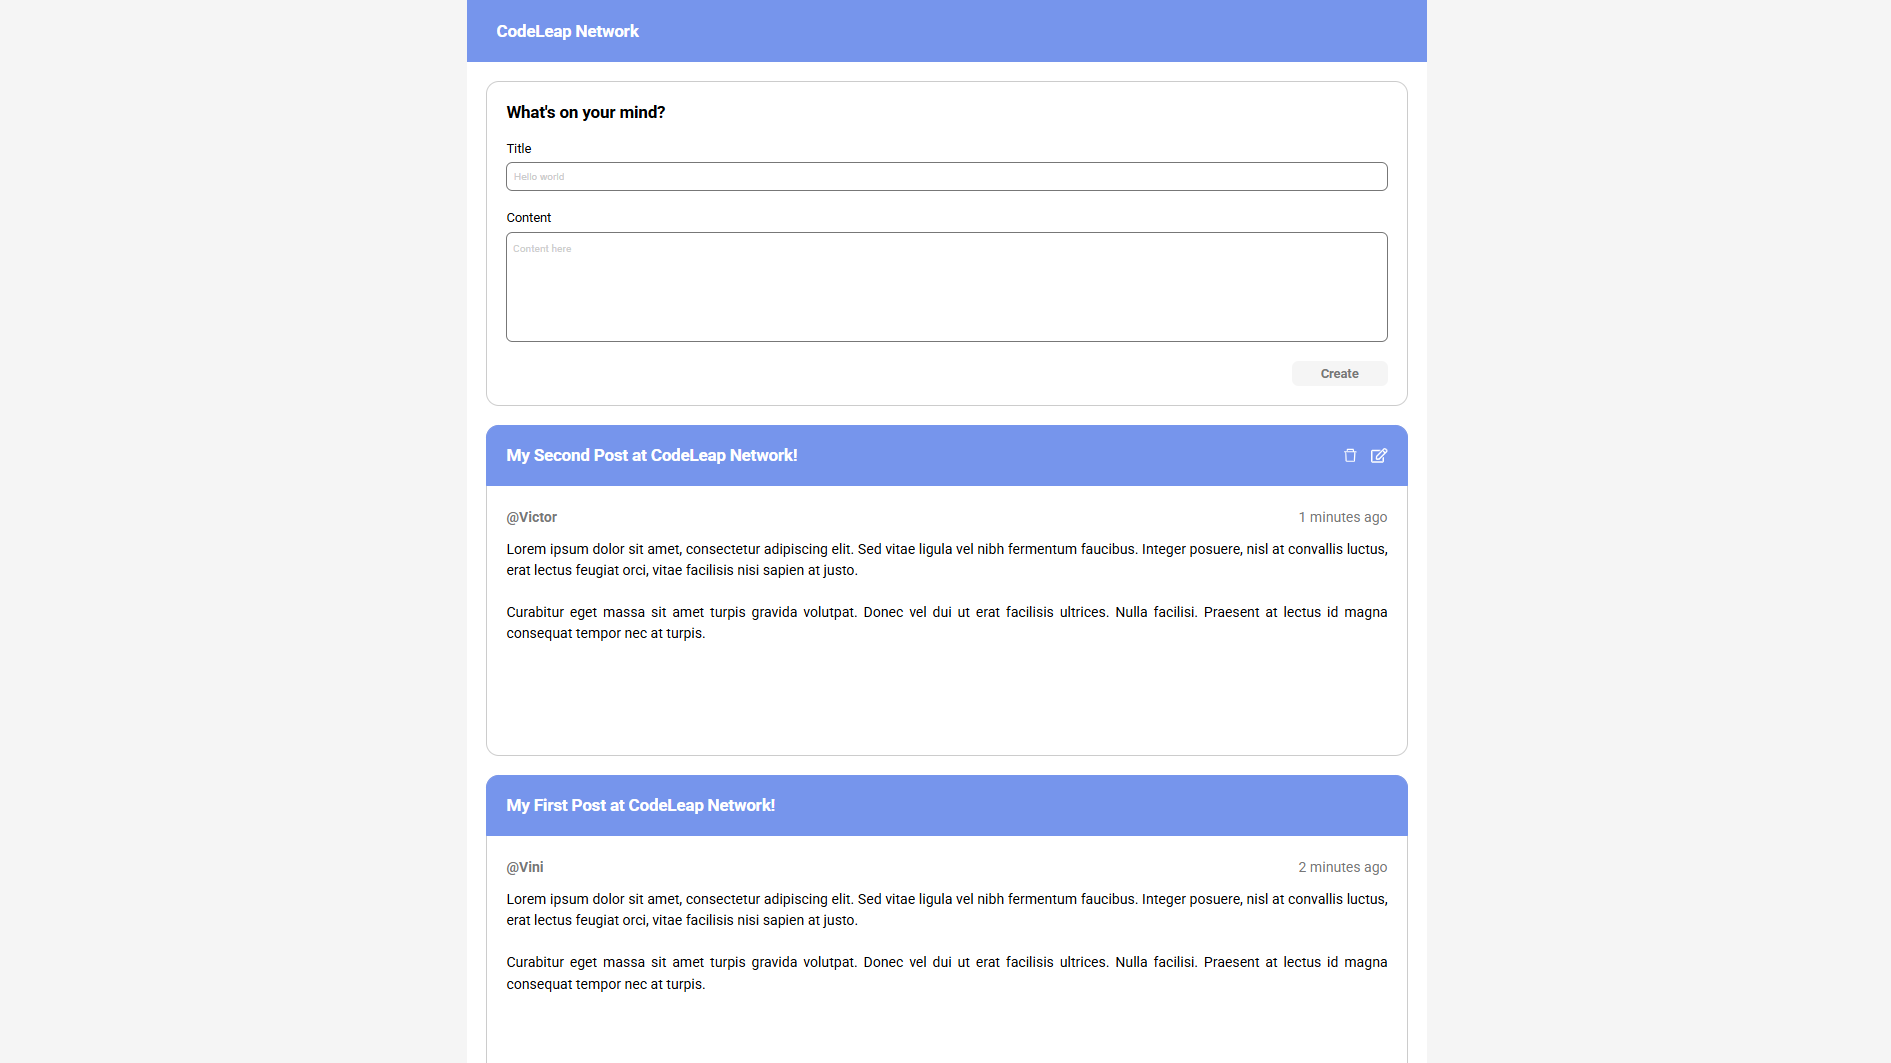
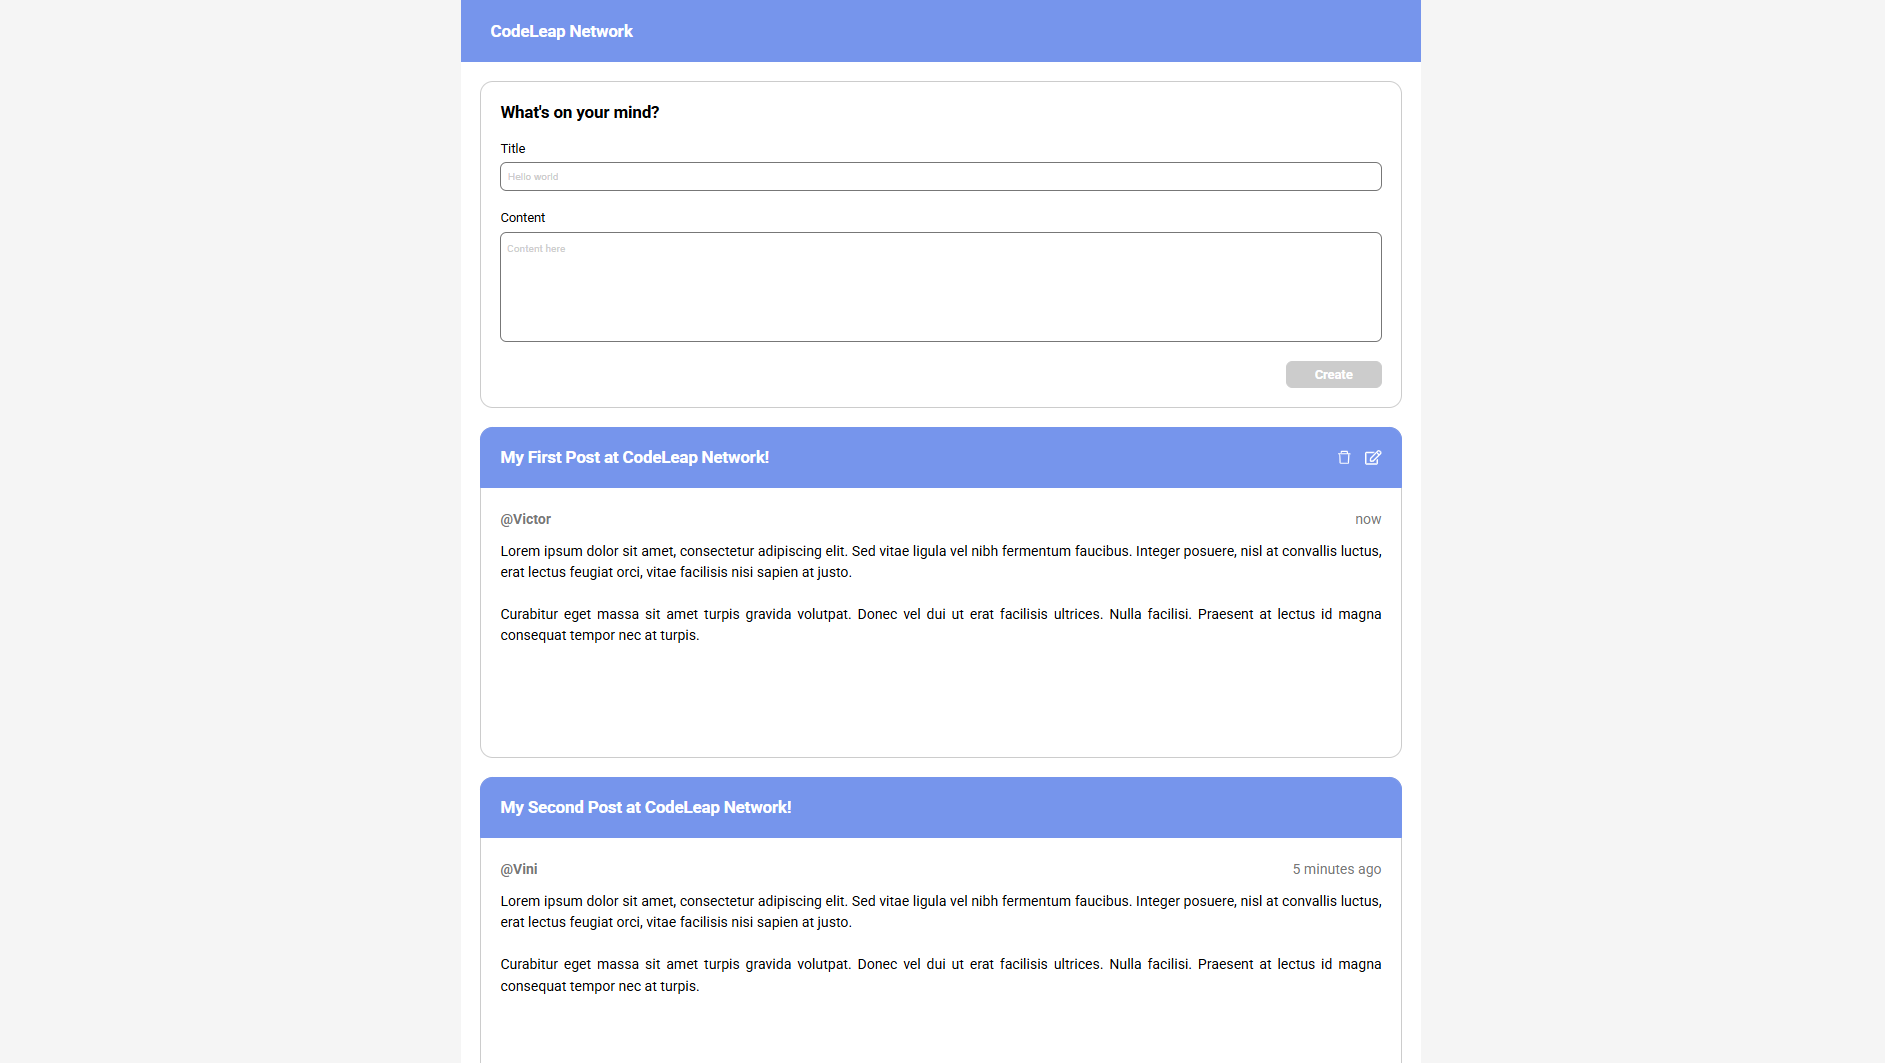
adjust image readme and test link of the codeleap server

diff --git a/src/components/Cards/index.js b/src/components/Cards/index.js
@@ -15,7 +15,7 @@ function Cards() {
 
   // function that returns only the edited first name
   function firstNameUserSplitSlice(nameUser) {
-    const firstName = nameUser.trim().split(/\s+/)[0]
+    const firstName = nameUser && nameUser.trim().split(/\s+/)[0]
 
     let editFirstName;
 
@@ -67,18 +67,37 @@ function Cards() {
     return able
 
   }
-
+console.log(userContent, 70)
   return (
     <div className='container'>
-      {[...userContent]
-        .sort((a, b) => b.date - a.date)
+      {/* {[...userContent]
+        .sort((a, b) => b.created_datetime - a.created_datetime)
         .map((user) => (
           <Card
             key={user.id}
             onClick={() => setCaptureIdUserModal(user)}
             title={user.title}
             usernameFirstName={firstNameUserSplitSlice(user?.username)}
-            date={user.date}
+            date={user.created_datetime}
+            content={user.content}
+            ableEditTool={matchedUserAndContentUser(user.id)}
+            ableDeleteTool={matchedUserAndContentUser(user.id)}
+          />
+
+        ))
+
+      } */}
+
+      {userContent !== undefined && userContent.length > 0 &&
+      [...userContent]
+        .sort((a, b) => b.created_datetime - a.created_datetime)
+        .map((user) => (
+          <Card
+            key={user.id}
+            onClick={() => setCaptureIdUserModal(user)}
+            title={user.title}
+            usernameFirstName={firstNameUserSplitSlice(user?.username)}
+            date={user.created_datetime}
             content={user.content}
             ableEditTool={matchedUserAndContentUser(user.id)}
             ableDeleteTool={matchedUserAndContentUser(user.id)}

diff --git a/src/components/MenuTools/ModalEditMenuTools/index.js b/src/components/MenuTools/ModalEditMenuTools/index.js
@@ -46,11 +46,11 @@ function ModalEditMenuTools({ menutoolsIcons }) {
       username: user,
       title: newTitle,
       content: newContent,
-      date: Date.now()
-
+      created_datetime: Date.now()
     })
 
-    await fetch(`http://localhost:3001/codeLeapNetwork/${captureUserCard.id}`, {
+    await fetch(`http://localhost:3001/codeLeapNetwork/${captureUserCard.id}`, { // json server
+    // await fetch(`https://dev.codeleap.co.uk/careers/${captureUserCard.id}`, { // codeleap server
       method: 'PUT',
       headers: {
           "Content-Type": "application/json"
@@ -107,8 +107,7 @@ function ModalEditMenuTools({ menutoolsIcons }) {
           />
 
           <div className='editButtons'>
-            <ButtonDefault 
-              // onClick={audioClick.play()}
+            <ButtonDefault
               onClick={closeModal}
               specificStyleButton='specificStyleModalEditCancelButton'
               nameButton='Cancel' 
@@ -116,7 +115,6 @@ function ModalEditMenuTools({ menutoolsIcons }) {
             />
 
             <ButtonDefault
-              // onClick={audioClick.play()}
               id='modalEditSaveButton'
               specificStyleButton='specificStyleModalEditSaveButton'
               nameButton='Save' 

diff --git a/src/components/MenuTools/ModalDeleteMenuTools/index.js b/src/components/MenuTools/ModalDeleteMenuTools/index.js
@@ -29,7 +29,8 @@ function ModalDeleteMenuTools({ menutoolsIcons }) {
   async function onDeleteModal(e) {
     e?.preventDefault()
 
-    const url = `http://localhost:3001/codeLeapNetwork/${captureUserCard.id}`
+    const url = `http://localhost:3001/codeLeapNetwork/${captureUserCard.id}` // json server
+    // const url = `https://dev.codeleap.co.uk/careers/${captureUserCard.id}` // codeleap server
 
     const options = {
         method: "DELETE",
@@ -76,8 +77,7 @@ function ModalDeleteMenuTools({ menutoolsIcons }) {
         </div>
 
         <div className='deleteButtons'>
-          <ButtonDefault 
-            // onClick={audioClick.play()}
+          <ButtonDefault
             onClick={closeModal}
             specificStyleButton='specificStyleModalDeleteCancelButton'
             nameButton='Cancel' 
@@ -85,7 +85,6 @@ function ModalDeleteMenuTools({ menutoolsIcons }) {
           />
 
           <ButtonDefault
-            // onClick={audioClick.play()}
             onClick={onDeleteModal}
             id='modalDeleteButton'
             specificStyleButton='specificStyleModalDeleteButton'

diff --git a/src/components/Main/index.js b/src/components/Main/index.js
@@ -60,19 +60,20 @@ function Main() {
         username: user,
         title: inputMainScreenPageValue,
         content: textareaMainScreenPageValue,
-        date: Date.now()
-        
+        created_datetime: Date.now(),
+        author_ip: "ip"
       }
 
       try {
-        const response = await fetch('http://localhost:3001/codeLeapNetwork', {
+        const response = await fetch('http://localhost:3001/codeLeapNetwork', { // json server
+        // const response = await fetch('https://dev.codeleap.co.uk/careers/', { // codeleap server
           method: 'POST',
           headers: {"Content-Type": "application/json"},
             body: JSON.stringify(data)                
         })
 
         if (response.ok) {
-          console.log(data, 'Data successfully submitted!');
+          console.log('Created!', data);
           setPostApi(true)
           clean()
 

diff --git a/src/components/DataContext/index.js b/src/components/DataContext/index.js
@@ -36,7 +36,8 @@ export default function DataProvider({ children }) { // Provider
     async function fetchData() {
       try {
         setLoading(true)
-        const res = await fetch("http://localhost:3001/codeLeapNetwork")
+        const res = await fetch("http://localhost:3001/codeLeapNetwork") // json server
+        // const res = await fetch("https://dev.codeleap.co.uk/careers/") // codeleap server
         const data = await res.json() 
   
         if (!data) {

diff --git a/src/components/Cards/Card/index.js b/src/components/Cards/Card/index.js
@@ -1,7 +1,7 @@
 import style from './style.css';
 import MenuTools from '../../MenuTools';
 
-function Card({ title, date, content, onClick, usernameFirstName, ableEditTool, ableDeleteTool }) {
+function Card({ title, date, content, onClick, usernameFirstName, ableEditTool, ableDeleteTool}) {
 
   // function that calcule the time
   function getTimeAgo(timestamp) {

diff --git a/src/components/Popups/PopupDefault/style.css b/src/components/Popups/PopupDefault/style.css
@@ -34,6 +34,7 @@
   width: 120px;
   border: 1px solid var(--second-color);
   border-radius: 8px;
+  transition: all 0.3s ease;
   cursor: pointer;
 }
 
